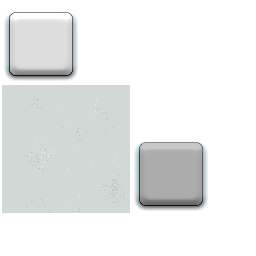
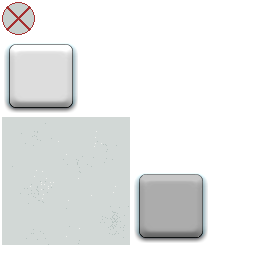
added a cancel drawing UI area

diff --git a/source code/core/src/no/sandramoen/drawingGame/screens/gameplay/LevelScreen.java b/source code/core/src/no/sandramoen/drawingGame/screens/gameplay/LevelScreen.java
@@ -26,6 +26,7 @@ import no.sandramoen.drawingGame.actors.ImpassableTerrain;
 import no.sandramoen.drawingGame.actors.Player;
 import no.sandramoen.drawingGame.actors.Water;
 import no.sandramoen.drawingGame.actors.utils.BaseActor;
+import no.sandramoen.drawingGame.ui.CancelDrawing;
 import no.sandramoen.drawingGame.ui.Speedometer;
 import no.sandramoen.drawingGame.ui.StaminaBar;
 import no.sandramoen.drawingGame.utils.BaseGame;
@@ -53,6 +54,7 @@ public class LevelScreen extends BaseScreen {
 
     private TypingLabel fishLabel;
     private TypingLabel turnLabel;
+    private CancelDrawing cancelDrawing;
     private StaminaBar staminaBar;
     private Speedometer speedometer;
 
@@ -167,6 +169,7 @@ public class LevelScreen extends BaseScreen {
                 Gdx.graphics.getWidth() * .04f)
         ) {
             isDrawing = true;
+            cancelDrawing.addAction(Actions.alpha(1, 1f));
             touchDownPoint.set(worldCoordinates.x, worldCoordinates.y);
         }
         return super.touchDown(screenX, screenY, pointer, button);
@@ -180,17 +183,23 @@ public class LevelScreen extends BaseScreen {
 
     @Override
     public boolean touchDragged(int screenX, int screenY, int pointer) {
-        Vector3 worldCoordinates = groundStage.getCamera().unproject(new Vector3(screenX, screenY, 0f));
-
-        if (isOutOfBounds(worldCoordinates))
-            return super.touchDragged(screenX, screenY, pointer);
-
-        if (isOnImpassableTerrain(worldCoordinates)) {
-            touchUp(screenX, screenY, pointer, 0);
-            return super.touchDragged(screenX, screenY, pointer);
-        }
-
         if (isDrawing) {
+            Vector3 worldCoordinates = groundStage.getCamera().unproject(new Vector3(screenX, screenY, 0f));
+
+            if (isOutOfBounds(worldCoordinates))
+                return super.touchDragged(screenX, screenY, pointer);
+
+            if (isOnImpassableTerrain(worldCoordinates)) {
+                touchUp(screenX, screenY, pointer, 0);
+                return super.touchDragged(screenX, screenY, pointer);
+            }
+
+            if (cancelDrawing.getBoundaryPolygon().contains(new Vector2(worldCoordinates.x, worldCoordinates.y))) {
+                isDrawing = false;
+                shapeDrawer.reset();
+                return super.touchDragged(screenX, screenY, pointer);
+            }
+
             if (shapeDrawer.isEnoughDistanceToDrawNewSegment(touchDownPoint, new Vector2(worldCoordinates.x, worldCoordinates.y))) {
                 shapeDrawer.drawNewLineSegment(touchDownPoint, new Vector2(worldCoordinates.x, worldCoordinates.y));
                 updateStaminaBar();
@@ -252,9 +261,9 @@ public class LevelScreen extends BaseScreen {
         isDrawing = false;
         speedometer.setZero();
         touchDownPoint.set(0, 0);
-        /*spawnRandomFish();*/
         fishLabel.setText("Remaining fishes: " + fishes.size);
         turnLabel.setText("Turns: " + ++numTurns);
+        cancelDrawing.addAction(Actions.alpha(.25f, 1f));
     }
 
     private void updateStaminaBar() {
@@ -311,6 +320,7 @@ public class LevelScreen extends BaseScreen {
     }
 
     private void initializeGUI() {
+        cancelDrawing = new CancelDrawing(Gdx.graphics.getWidth() * .1f, Gdx.graphics.getHeight() * .98f, uiStage);
         staminaBar = new StaminaBar(Gdx.graphics.getWidth() * .5f, Gdx.graphics.getHeight() * .98f, uiStage);
         speedometer = new Speedometer(Gdx.graphics.getWidth() * .85f, Gdx.graphics.getHeight() * .98f, uiStage);
 

diff --git a/source code/core/src/no/sandramoen/drawingGame/ui/CancelDrawing.java b/source code/core/src/no/sandramoen/drawingGame/ui/CancelDrawing.java
@@ -1,0 +1,27 @@
+package no.sandramoen.drawingGame.ui;
+
+import com.badlogic.gdx.graphics.Color;
+import com.badlogic.gdx.graphics.g2d.BitmapFont;
+import com.badlogic.gdx.scenes.scene2d.Stage;
+import com.badlogic.gdx.scenes.scene2d.actions.Actions;
+import com.badlogic.gdx.scenes.scene2d.ui.Label;
+
+import no.sandramoen.drawingGame.actors.utils.BaseActor;
+import no.sandramoen.drawingGame.utils.BaseGame;
+
+public class CancelDrawing extends BaseActor {
+    public CancelDrawing(float x, float y, Stage stage) {
+        super(x, y, stage);
+
+        loadImage("UI_cancel");
+        setSize(100, 100);
+        setPosition(x - getWidth() / 2, y - getHeight());
+        setBoundaryRectangle();
+
+        Label label = new Label("cancel drawing", new Label.LabelStyle(BaseGame.mySkin.get("arcade26", BitmapFont.class), null));
+        label.setColor(Color.DARK_GRAY);
+        label.setFontScale(.5f);
+        label.setPosition(getWidth() * .5f - label.getPrefWidth() * .5f, getHeight() * -.2f);
+        addActor(label);
+    }
+}

diff --git a/source code/core/src/no/sandramoen/drawingGame/utils/ShapeDrawer.java b/source code/core/src/no/sandramoen/drawingGame/utils/ShapeDrawer.java
@@ -49,8 +49,7 @@ public class ShapeDrawer {
 
     public void drawNewLineSegment(Vector2 start, Vector2 end) {
         addPolyLine(start, end);
-        collisionBoxes.add(drawPolyLine(polylines.peek(), Color.DARK_GRAY, 1f, false));/*
-        return checkIfClosedShape();*/
+        collisionBoxes.add(drawPolyLine(polylines.peek(), Color.DARK_GRAY, 1f, false));
     }
 
     public void addTriangles() {
@@ -76,9 +75,8 @@ public class ShapeDrawer {
     }
 
     public void reset() {
+        polylines.clear();
         clearBoxes(collisionBoxes);
-        polylines.clear();/*
-        triangles = null;*/
     }
 
     public void addCollisionPolygon() {

diff --git a/source code/core/src/no/sandramoen/drawingGame/actors/ImpassableTerrain.java b/source code/core/src/no/sandramoen/drawingGame/actors/ImpassableTerrain.java
@@ -13,6 +13,5 @@ public class ImpassableTerrain extends BaseActor {
         setSize(width, height);
         centerAtPosition(x, y);
         setBoundaryRectangle();
-        setDebug(true);
     }
 }
